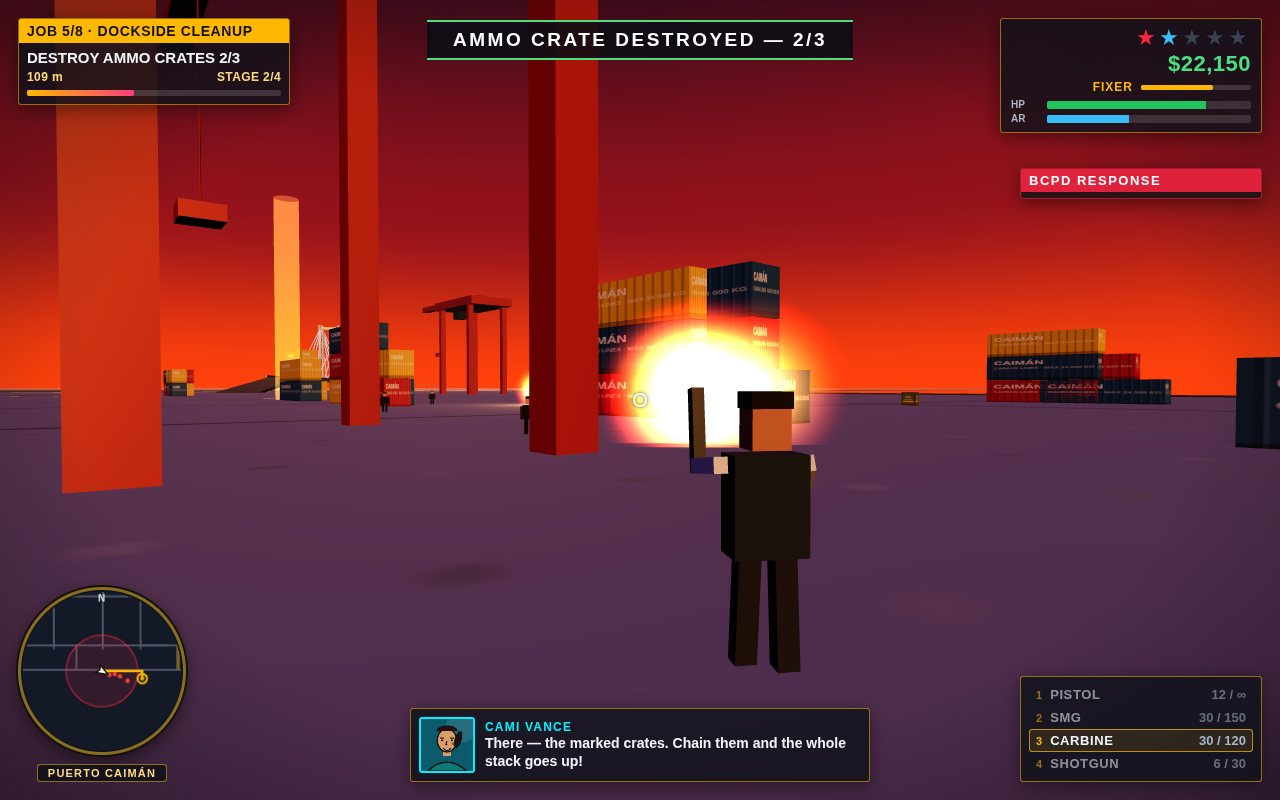
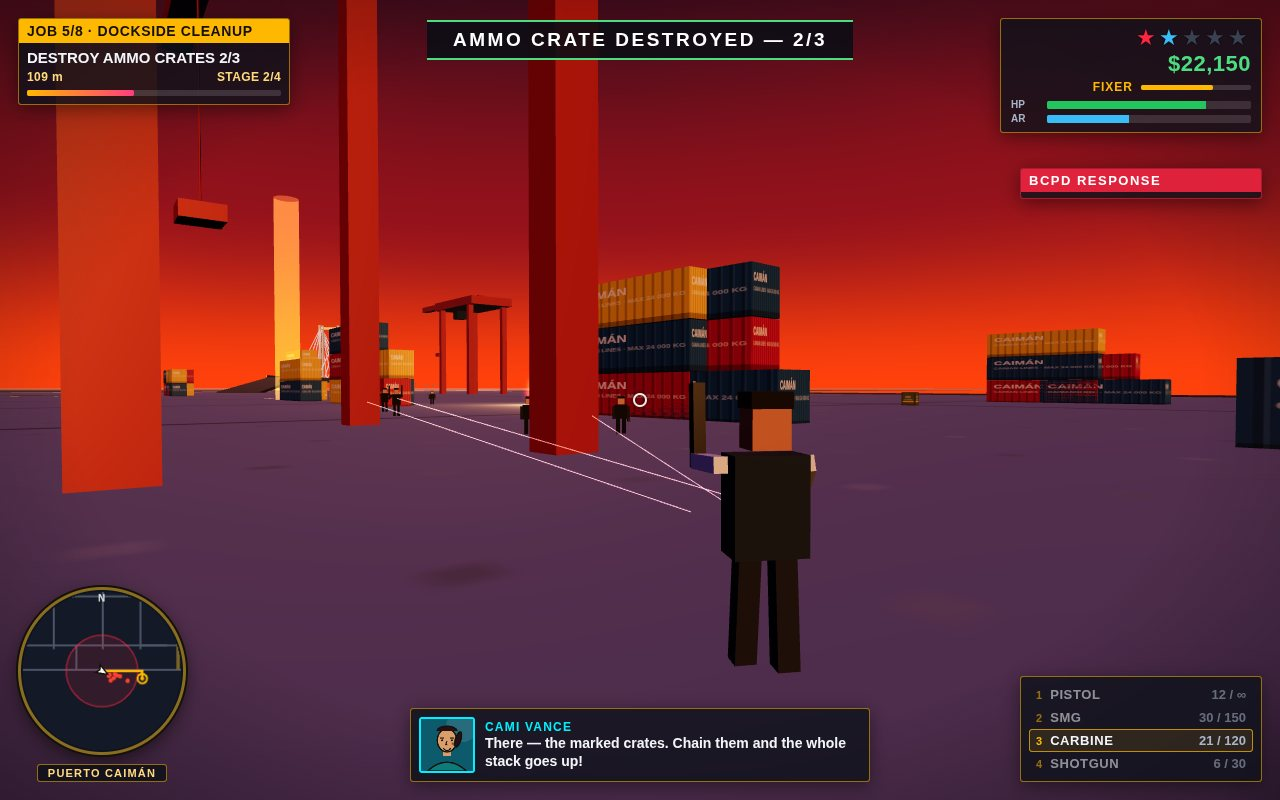
Window 5 revision: lit Taller Diablo garage + new judge screenshots
- Garage lighting: raised work/fill/neon point-light intensities and lamp
  emissive in buildGarage, plus a warm overhead SpotLight aimed down the
  lift so the car on the platform sits in a pool of light at night.
- Screenshots: slot 2 is now the pause-menu MAP tab (full city, district
  names, waypoint route to Pier 4, KINGPIN endgame state); slot 3 is a
  restaged dockside shootout with guards in frame under tracer fire and
  the objective banner up; slot 4 is the lit garage with the menu open.
  Cover untouched.

diff --git a/game/src/world/cityBuilder.js b/game/src/world/cityBuilder.js
@@ -829,19 +829,26 @@ function buildGarage(G) {
   }
   const lampBall = new THREE.Mesh(
     new THREE.SphereGeometry(0.28, 10, 8),
-    new THREE.MeshStandardMaterial({ color: '#443a20', emissive: '#ffc98a', emissiveIntensity: 2.4 }),
+    new THREE.MeshStandardMaterial({ color: '#443a20', emissive: '#ffc98a', emissiveIntensity: 3.4 }),
   );
   lampBall.position.set(-332, 5.6, 195);
   grp.add(lampBall);
-  const workLight = new THREE.PointLight('#ffc98a', 420, 60, 1.8);
+  const workLight = new THREE.PointLight('#ffc98a', 980, 70, 1.8);
   workLight.position.set(-332, 5.4, 195);
   grp.add(workLight);
-  const neonGlow = new THREE.PointLight('#22d3ee', 260, 34, 1.7);
+  const neonGlow = new THREE.PointLight('#22d3ee', 340, 38, 1.7);
   neonGlow.position.set(-304, 4.4, 195);
   grp.add(neonGlow);
-  const fillLight = new THREE.PointLight('#ffd9a8', 260, 40, 1.7);
+  const fillLight = new THREE.PointLight('#ffd9a8', 620, 48, 1.7);
   fillLight.position.set(-312, 2.6, 186);
   grp.add(fillLight);
+  // Overhead spot aimed straight down the lift so the car on the platform
+  // sits in a warm pool of light instead of the night preset's gloom.
+  const liftSpot = new THREE.SpotLight('#ffbe78', 2600, 26, 0.62, 0.55, 1.5);
+  liftSpot.position.set(-332, 6.1, 195);
+  liftSpot.target.position.set(-332, 0.4, 195);
+  grp.add(liftSpot);
+  grp.add(liftSpot.target);
 
   G.scene.add(grp);
   G.garage = {
